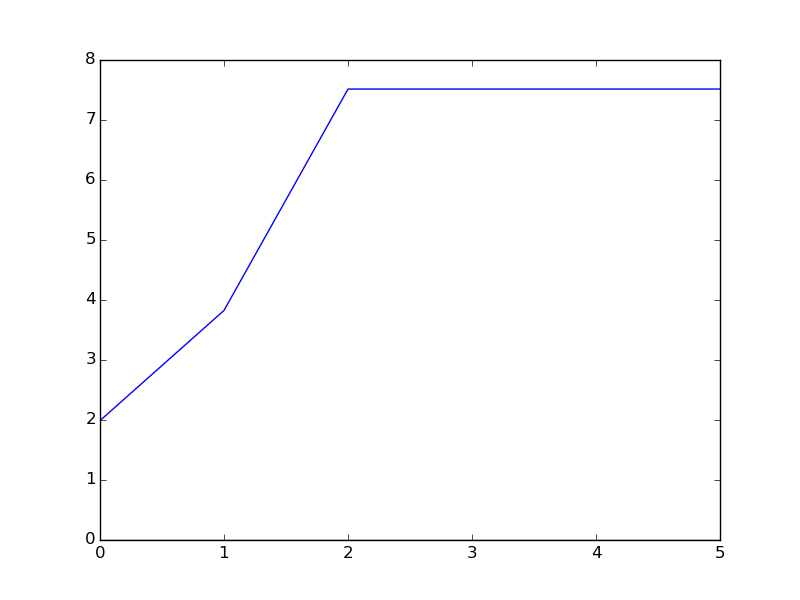
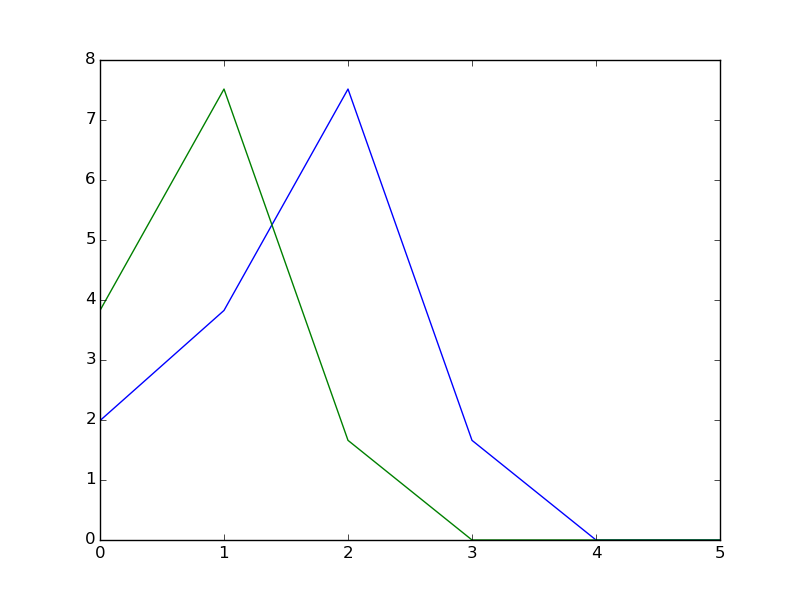
third

diff --git a/SparseGrid/SparseGridCode/growth_model/serial_adap/compare_method.py b/SparseGrid/SparseGridCode/growth_model/serial_adap/compare_method.py
@@ -49,6 +49,7 @@ def compare_method(f, c, w, iDim, iOut, iDepth, refinement_level):
     
     #for non adaptive method
     for k in range(iDepth):
+        non_adap_error = []
         grid_nonadap = non_adap(f, c, w, iDim, iOut, k)
         for i in range(aPoints.shape[0]):
             error = abs(grid_nonadap.evaluate(aPoints[i, :]) - f(aPoints[i, :],c, w))
@@ -57,7 +58,8 @@ def compare_method(f, c, w, iDim, iOut, iDepth, refinement_level):
         error_list_nonadap.append(non_adap_errormax)
     
     for k in range(iDepth):
-        grid_adap = adap(f, c, w, iDim, iOut, iDepth, k)
+        adap_error = []
+        grid_adap = adap(f, c, w, iDim, iOut, 1, k)
         for i in range(aPoints.shape[0]):
             error = abs(grid_adap.evaluate(aPoints[i, :]) - f(aPoints[i, :], c, w))
             adap_error.append(error)
